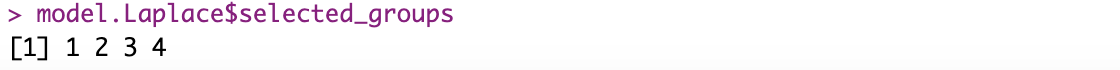
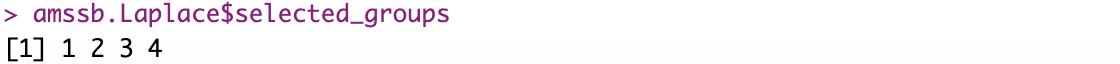
udpate

Changed region(s): [[0.0, 0.0312, 0.4062, 0.4375], [0.0, 0.5, 0.1562, 0.9688]]

diff --git a/content/fitting.md b/content/fitting.md
@@ -3,6 +3,7 @@ title: Model Fitting
 type: docs
 prev: Installation
 next: Prediction
+math: true
 ---
 
 ## Sparse Group Linear Models
@@ -30,7 +31,7 @@ for(index in nonzero_group){
 }
 groups <- rep(1:G, each = p_i)
 Y <- X %*% beta + rnorm(n, 0, sd = 3)
-model.Laplace <- GVSSB(X, Y, groups, prior = 'Laplace')
+gvssb.Laplace <- GVSSB(X, Y, groups, prior = 'Laplace')
 ```
 One implementation of this example gives:
 ![](GVSSB_result.png)
@@ -49,16 +50,24 @@ One implementation of this example gives:
 library(GVSSB)
 n <- 200
 G <- 300
-X <- mvtnorm::rmvnorm(n, sigma=diag(G))
+Xs <- mvtnorm::rmvnorm(n, sigma=diag(G))
 f1 <- function(x) 5 * sin(x)
 f2 <- function(x) 2 * (x^2 - 0.5)
 f3 <- function(x) 2 * exp(x)
 f4 <- function(x) 3 * x
-Y <- f1(X[,1]) + f2(X[,2]) + f3(X[,3]) + f4(X[,4]) + rnorm(n, 0, 1)
-model.Laplace <- AMSSB(X, Y, prior = 'Laplace')
+Ys <- f1(Xs[,1]) + f2(Xs[,2]) + f3(Xs[,3]) + f4(Xs[,4]) + rnorm(n, 0, sd = 1)
+amssb.Laplace <- AMSSB(Xs, Ys, prior = 'Laplace')
 ```
-![](GVSSB_result.png)
+![](AMSSB_result.png)
 
-To make prediction using fitted `GVSSB` and `AMSSB` models, please refer to the [Prediction](../prediction) section.
+To make prediction using fitted `GVSSB` and `AMSSB` models, please refer to the [Prediction and Inference](../prediction) section.
 
 ## Selecting Priors with Cross-Validation
+
+Users can automatically choose the prior through cross-validation (CV), simply by calling `cv.GVSSB` or `cv.AMSSB`. The `nfolds` argument specifies the number of folds in CV, and `loss` determines the loss function. We currently support both $\ell_1$ and $\ell_2$ errors.
+
+```r {filename="example - cross validation"}
+GVSSB.cv = cv.GVSSB(X, Y, groups, nfolds = 5)
+amssb.cv = cv.AMSSB(Xs, Ys, nfolds = 5)
+```
+![](cv_prior.png)
